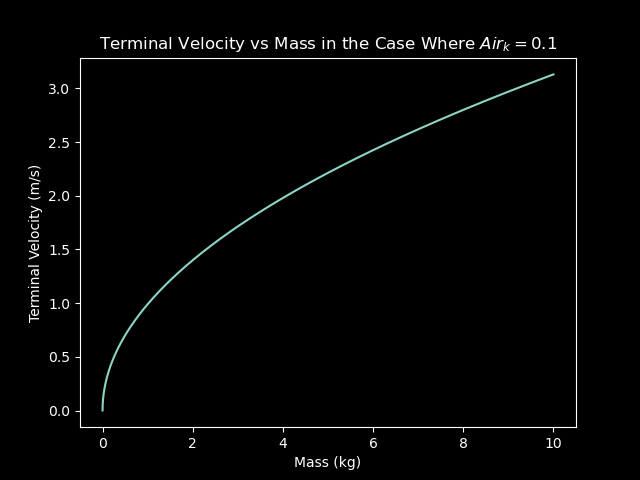
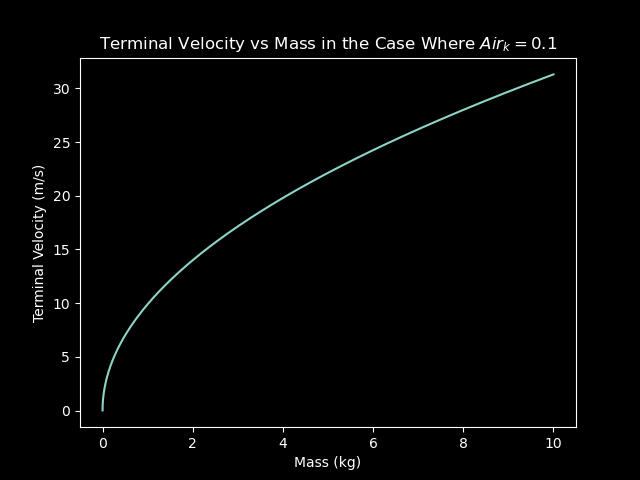
fixed vt problem (30 instead of 3)

diff --git a/src/vt_vs_mass.py b/src/vt_vs_mass.py
@@ -5,7 +5,7 @@ import matplotlib.pyplot as plt
 mass = np.arange(.001, 10000)
 gravity = 9.8
 drag = 0.1
-vterm = np.sqrt(mass*gravity/1000*drag)
+vterm = np.sqrt((mass/1000)*gravity/drag)
 
 
 plt.style.use("dark_background")
